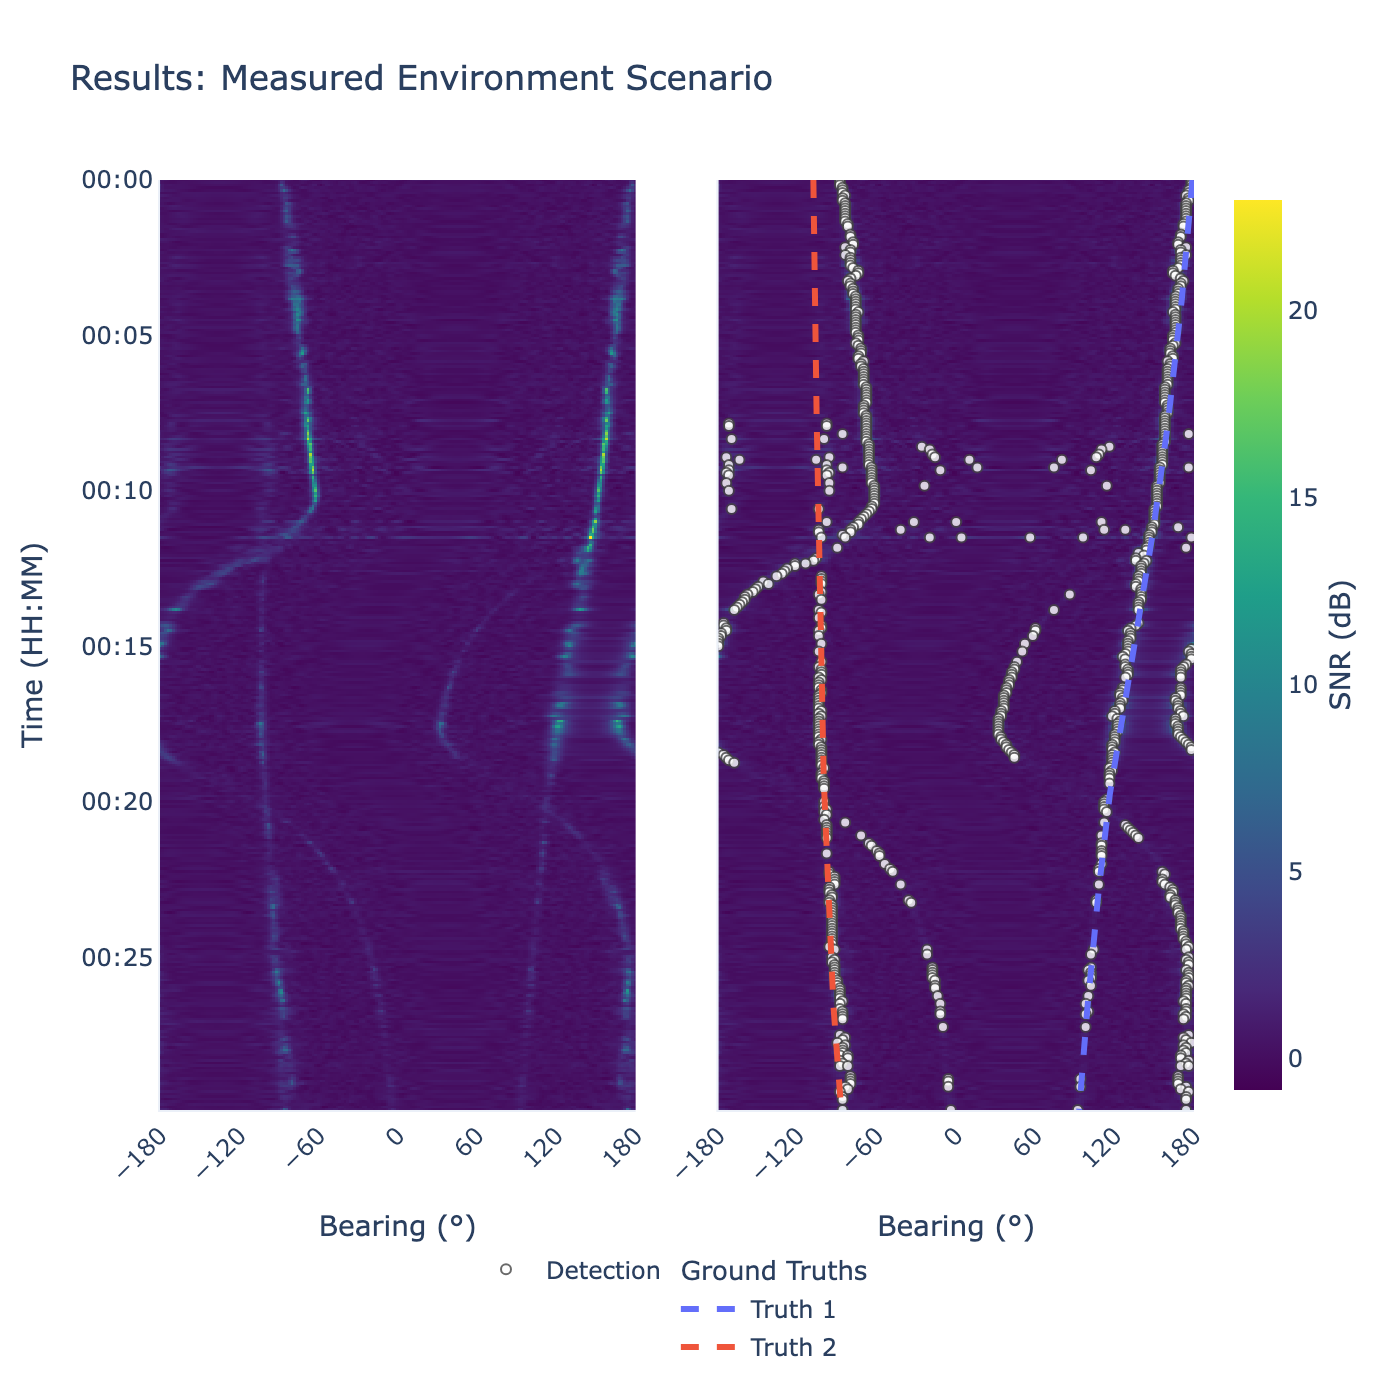
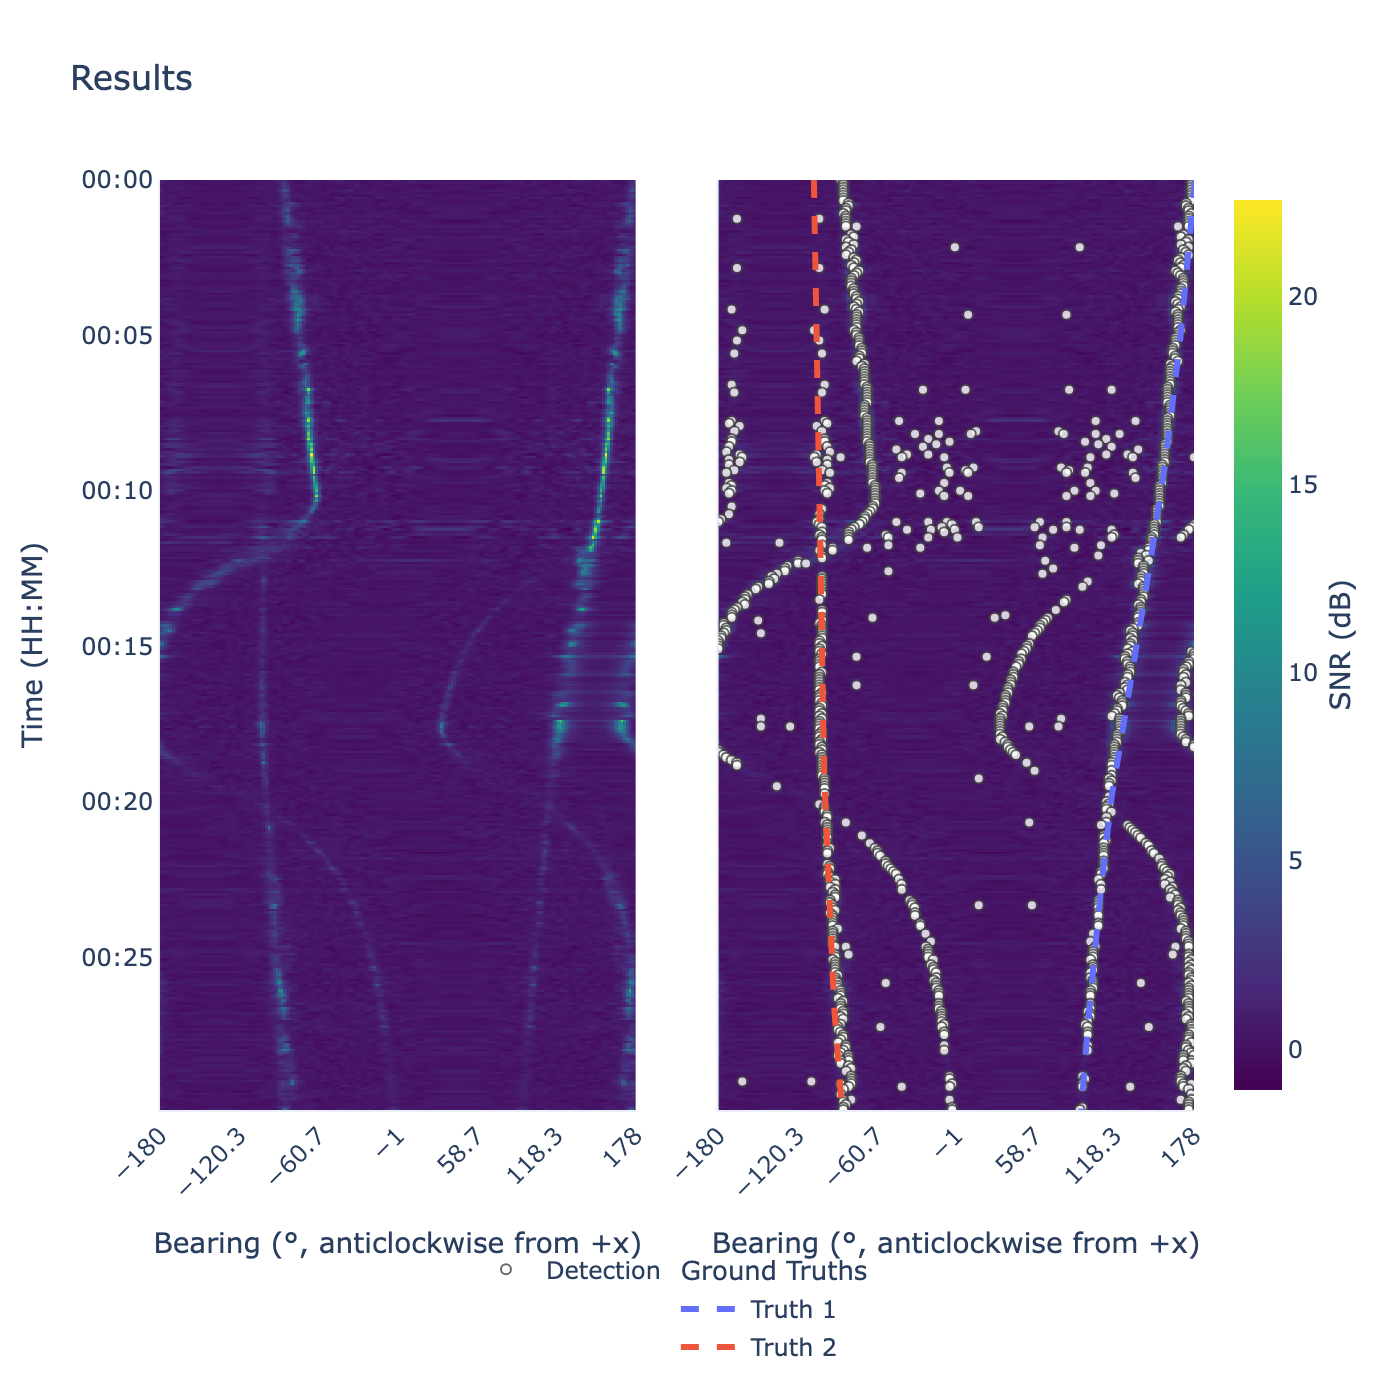
docs(examples): retitle the measured-data example and use CopernicusSoundSpeedProfile
Only the environment in this example comes from data (GEBCO bathymetry
and a Copernicus analysis); the target signals, ambient noise and array
output are simulated. "Measured" suggested recorded acoustics, and the
results section called the bearing-time record recorded, so the title
is now "Using GEBCO and Copernicus Environmental Data" and the prose
says what is simulated. The file name is unchanged, so links and figure
paths still work.

The example moves off the deprecated LeroyCopernicusSoundSpeedProfile,
and "reanalysis" becomes "analysis", since the file is Copernicus's
analysis and forecast product. The gallery card and the viewer's
docstring follow the same wording, and the results figure is now shown
when the script runs. The pre-generated results figure is regenerated
too. Besides the title, it picks up the detector and bearing-axis
changes from #91, which had not regenerated it.

diff --git a/docs/examples/using_measured_data.py b/docs/examples/using_measured_data.py
@@ -1,18 +1,22 @@
 """
-=================================
-Using Measured Environmental Data
-=================================
+=============================================
+Using GEBCO and Copernicus Environmental Data
+=============================================
 
-This example runs one scenario using measured environmental inputs:
+This example runs one scenario in the environment of a real area south of the Faroe Islands,
+built from oceanographic datasets:
 
 - GEBCO bathymetry (seafloor)
-- Copernicus temperature/salinity converted to sound speed via Leroy's equation
+- Copernicus temperature/salinity converted to sound speed via the NPL equation
+
+Only the environment comes from data. The target signals, ambient noise and array output are
+simulated, as in the other examples.
 
 .. note::
 
    This example requires external data files (GEBCO bathymetry and Copernicus ocean
-   reanalysis) that are not bundled with the repository.  The figures below are
-   pre-generated from a local run with the measured data.  To regenerate them, run
+   analysis) that are not bundled with the repository.  The figures below are
+   pre-generated from a local run with the data files.  To regenerate them, run
    ``docs/scripts/generate_using_measured_data_figs.py`` with the data files present.
 """  # noqa: D205, D212, D400, D415
 
@@ -40,7 +44,7 @@ from bluepebble.detector import (
     PassiveSonarDetector,
     beamformed_scans_from_sensor_data,
 )
-from bluepebble.models.environment import GEBCOBathymetry, LeroyCopernicusSoundSpeedProfile
+from bluepebble.models.environment import NPL, CopernicusSoundSpeedProfile, GEBCOBathymetry
 from bluepebble.models.propagation import rtrsAcousticPropagationModel
 from bluepebble.platform import TowedArrayPlatform
 from bluepebble.plotter import (
@@ -78,11 +82,11 @@ num_steps = int(sim_length_s / sim_rate_s)
 total_duration_s = num_steps * time_interval.total_seconds()
 
 # %%
-# Measured Data Path Resolution
-# -----------------------------
+# Data Path Resolution
+# --------------------
 #
 # The NetCDF file paths are resolved here. The bathymetry is from GEBCO 2024 for a region south of
-# the Faroe Islands; the temperature and salinity reanalysis are from the Copernicus Marine
+# the Faroe Islands; the temperature and salinity analysis are from the Copernicus Marine
 # Service for the same region and date.
 #
 # Files can be downloaded from:
@@ -204,9 +208,9 @@ for i in range(1, num_steps):
 # ---------------------------------
 #
 # Target kinematics and source metadata are generated here, along with bearing truth
-# sequences (bearings from the array) used for BTR overlays. The measured bathymetry and
-# sound speed profile are also constructed at the end of this section - they are needed for
-# the world overview figure and are reused by the propagation model that follows.
+# sequences (bearings from the array) used for BTR overlays. The GEBCO bathymetry and
+# Copernicus sound speed profile are also constructed at the end of this section - they are
+# needed for the world overview figure and are reused by the propagation model that follows.
 
 target_start_vectors = [
     np.array([-15000, 10.0, 20000, 10, -5.0, 0.0]),
@@ -281,9 +285,10 @@ bathymetry = GEBCOBathymetry(
     resolution=500.0,
 )
 
-ssp = LeroyCopernicusSoundSpeedProfile(
+ssp = CopernicusSoundSpeedProfile(
     temperature_file_path=str(cop_temp_file),
     salinity_file_path=str(cop_sal_file),
+    equation_cls=NPL,
     reference_lat_deg=bathymetry.reference_lat_deg,
     reference_lon_deg=bathymetry.reference_lon_deg,
 )
@@ -302,7 +307,7 @@ fig_world = plot_world(
 
 # %%
 # .. image:: ../_static/measured_data_figs/using_measured_data_world.png
-#    :alt: Platform and target trajectories overlaid on measured GEBCO bathymetry
+#    :alt: Platform and target trajectories overlaid on GEBCO bathymetry
 
 # %%
 # Bathymetry and Sound Speed Viewer
@@ -336,7 +341,7 @@ else:
 # Propagation Model
 # -----------------
 #
-# RTRS ray-tracing is used because it natively accepts the measured bathymetry and
+# RTRS ray-tracing is used because it natively accepts the gridded bathymetry and
 # sound speed profile objects built above, supporting range-varying environments
 # without approximation.
 
@@ -469,9 +474,9 @@ cfar_detector = CACFARDetector(
 # recorded beforehand with the same array, beamformer, steering and scan length. Here it comes
 # from the same platform with no ground_truth_paths, over the first 120 scans only, with noise
 # drawn independently of the scenario's. The simulator adds ambient noise at the sensors
-# without propagating it, so the measured bathymetry and sound-speed profile do not change
-# it; a real survey would be specific to the area. The calibration needs about 20,000 cells at
-# its defaults, which is 112 scans of 180 beams.
+# without propagating it, so the GEBCO bathymetry and Copernicus sound-speed profile do not
+# change it; a real survey would be specific to the area. The calibration needs about 20,000
+# cells at its defaults, which is 112 scans of 180 beams.
 from itertools import islice
 
 num_survey_scans = 120
@@ -516,24 +521,19 @@ detections = [d for _, detection_set in all_detections for d in detection_set]
 print(f"Total no. of detections: {len(detections)}")
 
 # %%
-# Results: Measured Environment Scenario
-# --------------------------------------
+# Results
+# -------
 #
 # **What**:
-# This figure presents results from a measured environment. The left panel shows the recorded
-# bearing-time SNR, while the right panel shows the extracted detections overlaid on the
-# ground-truth target tracks. Unlike a synthetic scenario, the data contains irregular background
-# structure, persistent interference, and scattered detections in addition to the target
-# signatures, reflecting the complexity of real measurements.
+# The left panel shows the simulated bearing-time SNR, and the right panel the detections
+# overlaid on the ground-truth target bearings.
 #
 # **Why**:
-# This is important because it demonstrates algorithm performance under realistic operating
-# conditions rather than in an idealised simulated scene. The figure shows not only whether the
-# targets can be observed, but also how well they can be distinguished from genuine clutter and
-# nuisance returns present in measured data. Detections that cluster near a dashed truth line
-# indicate successful target observation, whereas detections scattered away from the truth tracks
-# are more likely to represent clutter, false alarms, multipath effects, or other environmental
-# interference.
+# The target signals propagate through the area's range-dependent bathymetry and sound speed,
+# so their received levels and multipath depend on this environment rather than an idealised
+# one. Detections that cluster near a dashed truth line are target detections; those away from
+# the truth tracks are false alarms from the ambient noise, or the targets' own sidelobes and
+# multipath.
 
 fig_results = make_subplots(
     rows=1,
@@ -576,7 +576,7 @@ apply_shared_colourscale(
 
 fig_results.update_yaxes(title_text="", showticklabels=False, row=1, col=2)
 fig_results.update_layout(
-    title="Results: Measured Environment Scenario",
+    title="Results",
     template="plotly_white",
     autosize=True,
     width=None,
@@ -587,7 +587,7 @@ fig_results.update_layout(
 
 # %%
 # .. image:: ../_static/measured_data_figs/using_measured_data_results.png
-#    :alt: SNR map and detections for the measured environment scenario
+#    :alt: SNR map and detections for the GEBCO and Copernicus scenario
 
 # %%
 # Acknowledgement

diff --git a/bluepebble/plotter.py b/bluepebble/plotter.py
@@ -398,15 +398,15 @@ def launch_bathymetry_and_sound_speed_viewer(
     debug: bool = False,
     jupyter_mode: str | None = None,
 ) -> None:
-    """Launch an interactive bathymetry/profile dashboard for measured environments.
+    """Launch an interactive bathymetry/profile dashboard for gridded environments.
 
     The dashboard provides:
     - A bathymetry map (Blue Pebble ``-z`` convention) used as a profile selector.
     - A selected-point sound-speed profile plot (depth shown as ``+z`` downward).
 
-    This viewer is designed for measured-data models where bathymetry and SSP vary in
+    This viewer is designed for gridded models where bathymetry and SSP vary in
     both horizontal and vertical dimensions. It expects model objects compatible with
-    ``GEBCOBathymetry`` and ``LeroyCopernicusSoundSpeedProfile``.
+    ``GEBCOBathymetry`` and ``CopernicusSoundSpeedProfile``.
 
     Parameters
     ----------
@@ -492,7 +492,7 @@ def launch_bathymetry_and_sound_speed_viewer(
     missing_ssp_attrs = [name for name in required_ssp_attrs if not hasattr(ssp, name)]
     if missing_ssp_attrs:
         raise TypeError(
-            "ssp is missing required attributes/methods for measured-data viewing: "
+            "ssp is missing required attributes/methods for gridded-environment viewing: "
             f"{missing_ssp_attrs}"
         )
 

diff --git a/docs/source/conf.py b/docs/source/conf.py
@@ -144,7 +144,7 @@ warnings.filterwarnings("ignore", category=RemovedInSphinx10Warning)
 # ---------------------------------------------------------------------------
 
 _MEASURED_DATA_SECTION = """\
-Measured Data Examples
+External Data Examples
 ----------------------
 
 Examples that require external data files not bundled with the repository.
@@ -177,7 +177,7 @@ the scripts.
 
 .. raw:: html
 
-    <div class="sphx-glr-thumbcontainer" tooltip="Runs one scenario using measured environmental inputs: GEBCO bathymetry and Copernicus temperature/salinity converted to sound speed via Leroy&#x27;s equation.  Demonstrates how to wire real geophysical datasets into the Blue Pebble pipeline.">
+    <div class="sphx-glr-thumbcontainer" tooltip="Runs one scenario in the environment of a real area: GEBCO bathymetry and Copernicus temperature/salinity converted to sound speed via the NPL equation.  Demonstrates how to wire real geophysical datasets into the Blue Pebble pipeline.">
 
 .. only:: html
 
@@ -188,7 +188,7 @@ the scripts.
 
 .. raw:: html
 
-      <div class="sphx-glr-thumbnail-title">Using Measured Environmental Data</div>
+      <div class="sphx-glr-thumbnail-title">Using GEBCO and Copernicus Environmental Data</div>
     </div>
 
 

diff --git a/docs/source/examples/using_measured_data.rst b/docs/source/examples/using_measured_data.rst
@@ -1,12 +1,16 @@
 .. _using_measured_data:
 
-Using Measured Environmental Data
-==================================
+Using GEBCO and Copernicus Environmental Data
+=============================================
 
-This example runs one scenario using measured environmental inputs:
+This example runs one scenario in the environment of a real area south of the Faroe Islands,
+built from oceanographic datasets:
 
 - GEBCO bathymetry (seafloor)
-- Copernicus temperature/salinity converted to sound speed via Leroy's equation
+- Copernicus temperature/salinity converted to sound speed via the NPL equation
+
+Only the environment comes from data. The target signals, ambient noise and array output are
+simulated, as in the other examples.
 
 It demonstrates how to wire real geophysical datasets into the Blue Pebble pipeline,
 replacing the analytical models used in the other examples with data-driven alternatives
@@ -15,8 +19,8 @@ for bathymetry and sound speed profile.
 .. note::
 
    This example requires external data files (GEBCO bathymetry and Copernicus ocean
-   reanalysis) that are not bundled with the repository.  The figures below were
-   pre-generated from a local run with the measured data.  To regenerate them, run
+   analysis) that are not bundled with the repository.  The figures below were
+   pre-generated from a local run with the data files.  To regenerate them, run
    ``docs/scripts/generate_using_measured_data_figs.py`` with the data files present.
 
    Data can be obtained from:
